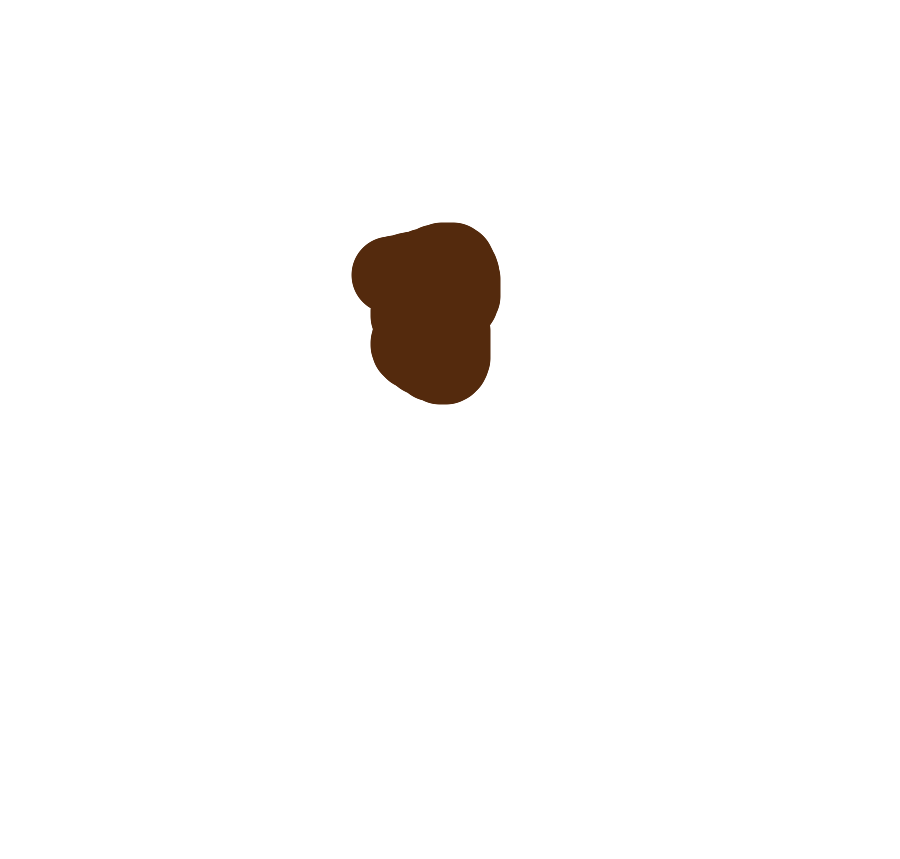
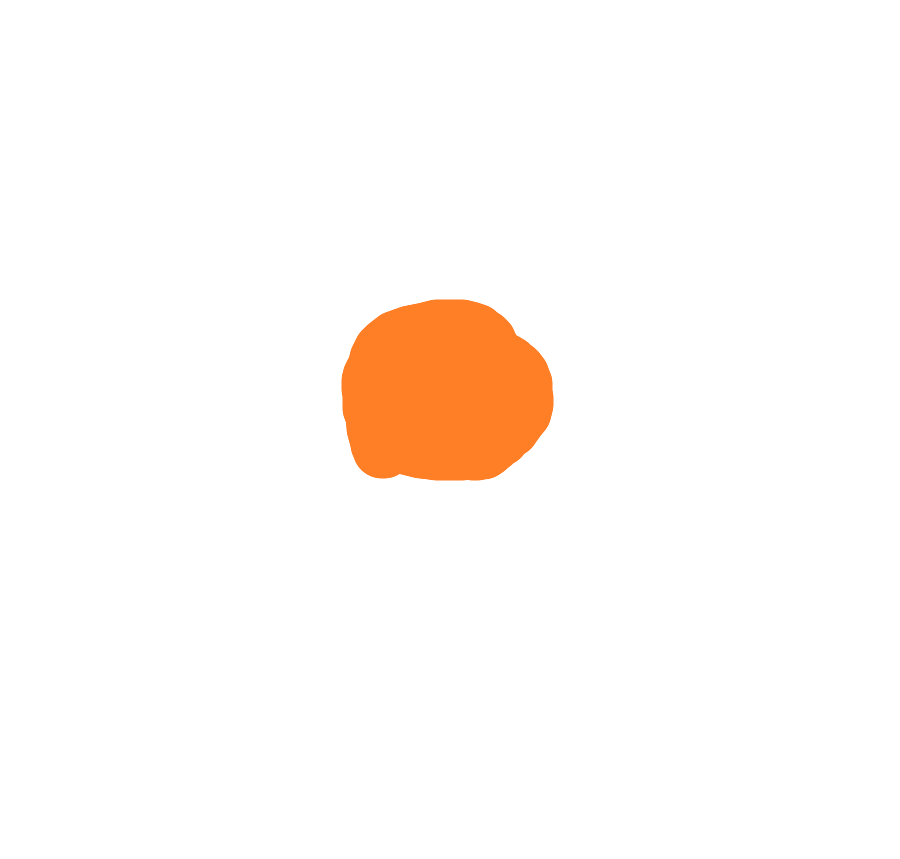
versão 0.4, resolvido a questão variação, adição de nova classe cerrebro

Changed region(s): [[0.3733, 0.2421, 0.6222, 0.5751]]

diff --git a/src/main/java/org/scannerperifericos/mvc/models/CriadorDeConteudo.java b/src/main/java/org/scannerperifericos/mvc/models/CriadorDeConteudo.java
@@ -1,0 +1,81 @@
+package org.scannerperifericos.mvc.models;
+
+import javax.imageio.ImageIO;
+import java.awt.image.BufferedImage;
+import java.io.File;
+import java.io.IOException;
+import java.util.Random;
+
+public class CriadorDeConteudo {
+
+    private final Random random = new Random();
+
+    private char posicaoAtual;
+    private char posicaoAnterior = 'A';
+
+    // Sorteia de A até I
+    public void posicaoAleatoria() {
+        posicaoAtual = (char) ('A' + random.nextInt(9));
+    }
+
+    // Converte A-I em coordenadas da matriz 3x3
+    public int[] interpretarPosicao(char posicao) {
+
+        switch (posicao) {
+            case 'A': return new int[]{0,0};
+            case 'B': return new int[]{1,0};
+            case 'C': return new int[]{2,0};
+
+            case 'D': return new int[]{0,1};
+            case 'E': return new int[]{1,1};
+            case 'F': return new int[]{2,1};
+
+            case 'G': return new int[]{0,2};
+            case 'H': return new int[]{1,2};
+            case 'I': return new int[]{2,2};
+
+            default:
+                throw new IllegalArgumentException("Posição inválida");
+        }
+    }
+
+    public void novaImagem(String nomeArquivo) throws IOException {
+
+        BufferedImage img =
+                new BufferedImage(
+                        3,
+                        3,
+                        BufferedImage.TYPE_INT_RGB);
+
+        // fundo preto
+        for (int y = 0; y < 3; y++) {
+            for (int x = 0; x < 3; x++) {
+                img.setRGB(x, y, 0x000000);
+            }
+        }
+
+        posicaoAleatoria();
+
+        int[] coordenadas =
+                interpretarPosicao(posicaoAtual);
+
+        int x = coordenadas[0];
+        int y = coordenadas[1];
+
+        // objeto vermelho
+        img.setRGB(x, y, 0xFF0000);
+
+        ImageIO.write(
+                img,
+                "png",
+                new File(nomeArquivo)
+        );
+
+        System.out.println(
+                "Origem: " + posicaoAnterior +
+                        " | Destino: " + posicaoAtual
+        );
+
+        posicaoAnterior = posicaoAtual;
+    }
+}

diff --git a/src/main/java/org/scannerperifericos/mvc/Main.java b/src/main/java/org/scannerperifericos/mvc/Main.java
@@ -1,15 +1,23 @@
 package org.scannerperifericos.mvc;
 
+import org.scannerperifericos.mvc.controller.ConteudoController;
 import org.scannerperifericos.mvc.models.Cerrebro;
+import org.scannerperifericos.mvc.models.CriadorDeConteudo;
 import org.scannerperifericos.mvc.models.Scanner;
 
 import java.io.IOException;
 
 public class Main {
     public static void main(String[] args) throws Exception {
-        Scanner scaner= new Scanner();
-        scaner.roteiroAcao("C:\\Users\\pedro\\OneDrive\\Área de Trabalho\\WorkSpace\\ScannerPerifericos\\src\\main\\java\\org\\scannerperifericos\\imagens",3);
-        Cerrebro cerrebro=new Cerrebro();
-        cerrebro.carregarDados("C:\\Users\\pedro\\OneDrive\\Área de Trabalho\\WorkSpace\\ScannerPerifericos\\src\\main\\java\\org\\scannerperifericos\\dados.arff");
+        //Scanner scaner= new Scanner();
+        //scaner.roteiroAcao("C:\\Users\\pedro\\OneDrive\\Área de Trabalho\\WorkSpace\\ScannerPerifericos\\src\\main\\java\\org\\scannerperifericos\\imagens",3);
+       // Cerrebro cerrebro=new Cerrebro();
+       // cerrebro.carregarDados("C:\\Users\\pedro\\OneDrive\\Área de Trabalho\\WorkSpace\\ScannerPerifericos\\src\\main\\java\\org\\scannerperifericos\\dados.arff");
+        //CriadorDeConteudo ato =new CriadorDeConteudo();
+       // ato.novaImagem("teste.png");
+        ConteudoController conteudoController =new ConteudoController();
+        for(int x=0;x<9;x++){
+             conteudoController.gerenciar("teste");
+        }
     }
 }

diff --git a/src/main/java/org/scannerperifericos/mvc/controller/ConteudoController.java b/src/main/java/org/scannerperifericos/mvc/controller/ConteudoController.java
@@ -1,0 +1,22 @@
+package org.scannerperifericos.mvc.controller;
+
+import org.scannerperifericos.mvc.models.CriadorDeConteudo;
+
+import java.io.IOException;
+
+public class ConteudoController {
+    CriadorDeConteudo criadorDeConteudo= new CriadorDeConteudo();
+    static int numero=0;
+    public void gerenciar(String nome) throws IOException {
+        criadorDeConteudo.novaImagem(texto(nome));
+
+    }
+
+    private String texto(String nome) {
+        String texto =nome+this.numero+".png";
+        numero=numero+1;
+        return texto;
+
+
+    }
+}
